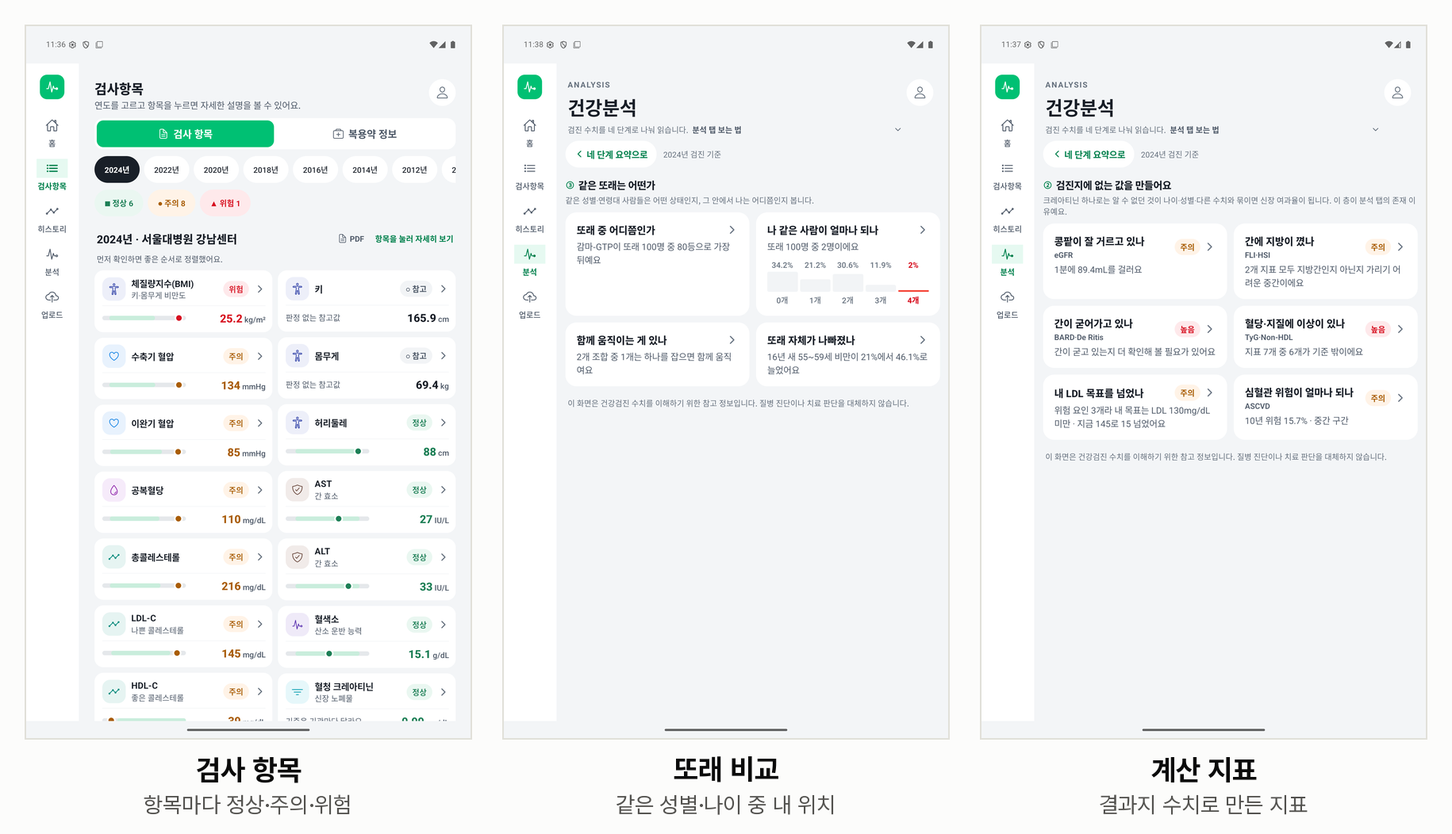
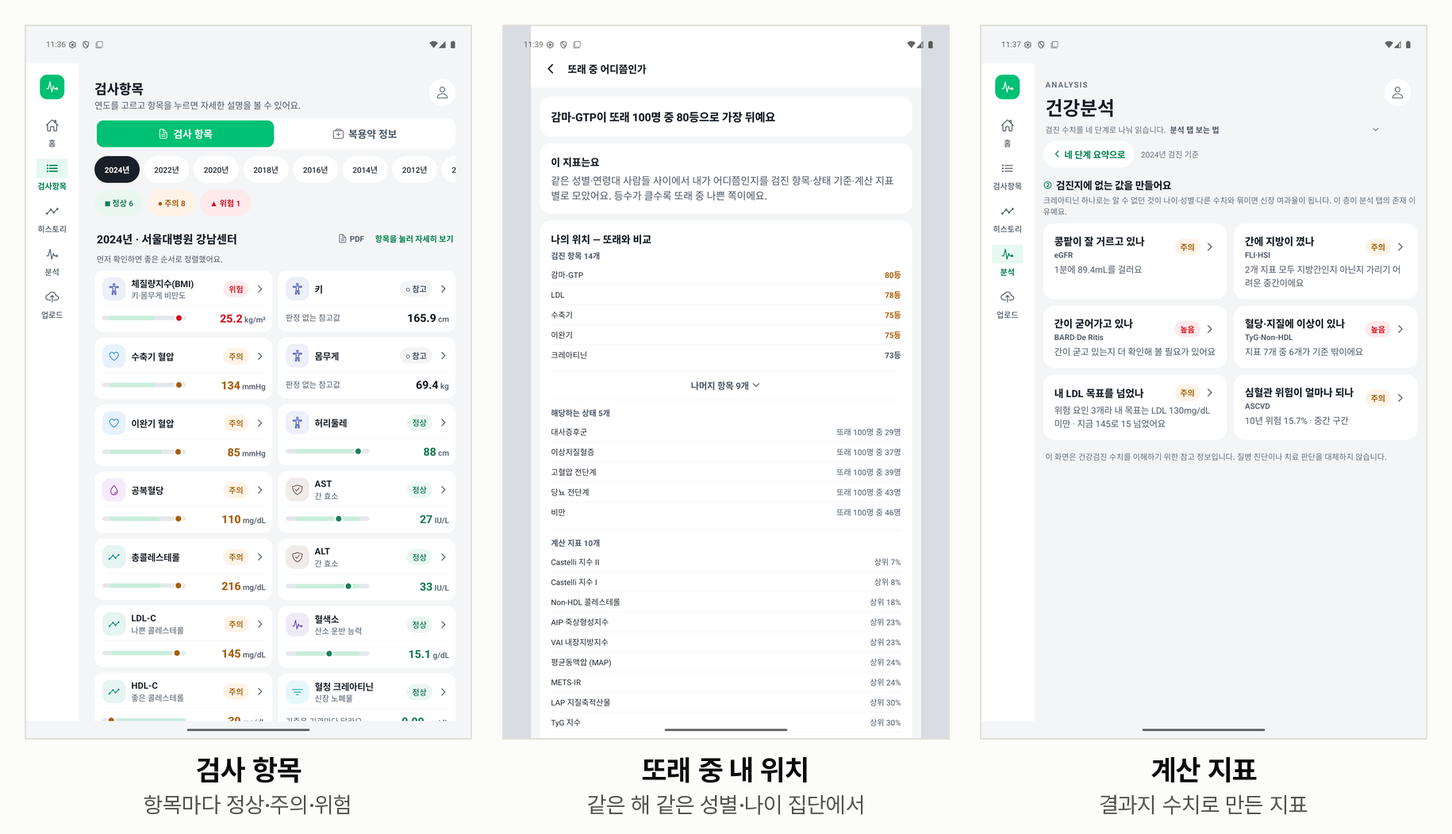
README·문서: 점검 지적 반영(표현·숫자·실행 안내·정정 안내)
- 필요성 첫 문장과 그림 제목을 설문 문항에 맞게, 행동 근거 17.7%, 공공 데이터 설명, 계산식 20종+판정 2종, 참고 점수 계산식
- 또래 16년 추세 예시를 빼고 같은 해 비교 화면으로 바꿈, OCR 문구, 시험 실행 안내, 구성도의 복약 기록 경로
- docs/README·analysis/README에 발표자료 숫자 차이, 2009~2013 나이 코드 정정, 커밋 번호 안내

Changed region(s): [[0.3426, 0.0304, 0.6541, 0.8821], [0.4049, 0.9125, 0.5918, 0.9734], [0.5295, 0.2738, 0.5918, 0.3042]]

diff --git a/frontend-mobile/기존설계-통합본.md b/frontend-mobile/기존설계-통합본.md
@@ -65,7 +65,7 @@
 | 용어 | 뜻 |
 |---|---|
 | **뎁스** (세로 깊이) | 1뎁스 = 결론 카드, 2뎁스 = 카드를 열었을 때, 2.5뎁스 = 그 안의 접힌 "자세히" |
-| **L0~L3** | 스펙 §2의 옛 이름. L0=홈, L1=1뎁스, L2=2뎁스, L3=2.5뎁스. **코드 어휘(1·2·2.5뎁스)가 정본** |
+| **L0\~L3** | 스펙 §2의 옛 이름. L0=홈, L1=1뎁스, L2=2뎁스, L3=2.5뎁스. **코드 어휘(1·2·2.5뎁스)가 정본** |
 | **층** (가로 구획) | 분석 탭의 ① 기준을 벗어났나 → ② 검진지에 없는 값을 만들어요 → ③ 같은 또래는 어떤가 → ④ 그래서 뭘 하면 되나 |
 | **2뎁스 다섯 칸** | ①결론 → ②정의 → ③나의 위치 → ④의미 → ⑤행동 (순서 고정, 예외 없음) |
 | **구획** (`DomainHeader`) | ②층 안에서 장기별(신장/간/대사·지질/심혈관)로 나누는 머리말 |
@@ -76,7 +76,7 @@
 
 | 용어 | 뜻 |
 |---|---|
-| **참고 점수** | 0~100. 검사 항목별 주의/위험 **개수**로 감점. 계산기·조합·ASCVD 등은 **점수에 안 들어간다**(그래서 "이 점수에 들어가지 않은 신호 N가지"를 따로 보여줌) |
+| **참고 점수** | 0\~100. 검사 항목별 주의/위험 **개수**로 감점. 계산기·조합·ASCVD 등은 **점수에 안 들어간다**(그래서 "이 점수에 들어가지 않은 신호 N가지"를 따로 보여줌) |
 | **배지** | 분석 카드는 양호/주의/**높음**('위험'은 선별용 지표에 쓰지 않음), 검사항목은 정상/주의/위험 |
 | **`interpretation` / `plain`** | 같은 판정의 두 벌. `interpretation`=2뎁스 배지·근거, `plain`=**1뎁스 결론** 해요체 문장 |
 | **자산** | 백엔드가 계산했거나 데이터로 확보한 것. "타입에만 있고 안 그리면 없는 것" |
@@ -125,8 +125,8 @@
 | 0. 질문 | 위 표대로 층을 가른다 |
 | 1. 중요도 × 어려움 | 중요·쉬움 → 1뎁스 그대로 / **중요·어려움 → 1뎁스엔 번역한 결론만, 원문은 2.5뎁스** / 부차·쉬움 → 2뎁스 / 부차·어려움 → 2.5뎁스 |
 | 2. 언어 | 1뎁스: 검진지에 **인쇄된** 항목명만(우리가 지은 지표명·약어·공식 금지). 2뎁스: 쉬운 말 먼저, 괄호로 용어. 2.5뎁스: 제한 없음. 선은 "종이에 있나" |
-| 3. 분량 | 1뎁스 제목 12자(배지 있으면)/15자, 결론 1문장 40자, 배지 1개. 2뎁스 칸당 1~3문장, 스크롤 없이 읽히는 분량. 2.5뎁스는 접힌 채 시작, **펼쳐서 6줄 넘으면 3뎁스 검토 신호**(실측 34개 중 5개가 넘음 → "층이 필요한 게 아니라 그 다섯 개가 긴 것") |
-| 4. 순서 | 1뎁스는 탭마다 정렬 기준 하나, 화면이 그 기준을 말한다(홈=심각도, 검사항목=심각도, 히스토리=시간→종합, 분석=논리 4단계). 2뎁스는 ①~⑤ 고정 |
+| 3. 분량 | 1뎁스 제목 12자(배지 있으면)/15자, 결론 1문장 40자, 배지 1개. 2뎁스 칸당 1\~3문장, 스크롤 없이 읽히는 분량. 2.5뎁스는 접힌 채 시작, **펼쳐서 6줄 넘으면 3뎁스 검토 신호**(실측 34개 중 5개가 넘음 → "층이 필요한 게 아니라 그 다섯 개가 긴 것") |
+| 4. 순서 | 1뎁스는 탭마다 정렬 기준 하나, 화면이 그 기준을 말한다(홈=심각도, 검사항목=심각도, 히스토리=시간→종합, 분석=논리 4단계). 2뎁스는 ①\~⑤ 고정 |
 
 ### 4-3. 2뎁스 다섯 칸
 
@@ -148,7 +148,7 @@
 - **판단이 반드시 있어야 한다**(배지 또는 결론 문장 중 하나 이상). 개수·수치 나열로 끝내지 않는다.
   - ✅ "지표 2개 중 1개가 기준 밖이에요" / ❌ "해당 조합 2개"
 - **이름은 질문형**: "콩팥이 잘 거르고 있나"처럼 짓고 용어는 제목 *옆* 작은 회색 라벨(`term`)로. 제목에 괄호로 넣으면 축 2에 걸린다.
-- **"~ 검사"로 부르지 않는다.** 검사를 받은 게 아니라 검진 수치로 계산한 값이다.
+- **"\~ 검사"로 부르지 않는다.** 검사를 받은 게 아니라 검진 수치로 계산한 값이다.
 - **결론은 "답"이지 "값"이 아니다.** 검진지에서 이미 알 수 있는 것을 되풀이하면 카드를 열 이유가 없다(예: "목표 LDL 130 미만, 초과했어요" 대신 "위험 요인 2개라 내 목표는 130 미만 · 지금 178로 48 넘었어요").
 - 결론은 해요체로 끝낸다. 명사로 끊으면 표의 한 칸처럼 읽힌다.
 - 결론이 옆 카드와 같은 질문을 하면 안 된다. 다만 **읽는 목적이 다르면 같은 데이터를 두 번 써도 된다.**
@@ -164,7 +164,7 @@
 ## 5. 화면별 현황과 이미 내려진 결정
 
 ### 5-1. 홈
-- 참고 점수(큰 숫자 64~80pt) + "지금 주의할 항목 TOP 3"(번호, 항목명, 쉬운 해석 한 줄, 상태 배지, **수치 없음**) + "전체 보기" + "빠른 이동".
+- 참고 점수(큰 숫자 64\~80pt) + "지금 주의할 항목 TOP 3"(번호, 항목명, 쉬운 해석 한 줄, 상태 배지, **수치 없음**) + "전체 보기" + "빠른 이동".
 - 모두 정상이면 "모두 정상이에요" 카드.
 - "빠른 이동"(검진기관·병원·약국 찾기 버튼)은 판단 요소가 아니라 **도구 카드**라 정렬 규칙(축 4) 대상이 아니다. TOP 3 아래로 내렸다가 되돌린 이력이 있다.
 - 홈만 데이터를 따라오지 못하던 버그: 항목별 `status`는 `latest.statusByKey`에서 **파생**시킨다.
@@ -227,7 +227,7 @@
 | 미로그인 | 가짜 점수 대신 **로그인 유도 CTA**(검진기관·병원·약국 찾기는 로그인 없이 가능) |
 | 로그인 + 기록 없음 | "검진 기록이 없어요" 빈 상태 + 업로드 유도 |
 | 로그인 + 기록 있음 | **실제 데이터만** |
-| 데모 계정(root/1234) | 시연용 더미(8~9개 회차 모두 실산출, 지어낸 것 아님) |
+| 데모 계정(root/1234) | 시연용 더미(8\~9개 회차 모두 실산출, 지어낸 것 아님) |
 
 ---
 
@@ -275,16 +275,16 @@
 | 토큰 | px | 역할 | 시니어 기준표(최소 → 권장) |
 |---|---|---|---|
 | `T.fs.caption` | **14** | 보조 글자·배지·칩·단위·출처 | 14 → 16 |
-| `T.fs.body` | **16** | 읽는 문장 | 16 → 18~20 |
-| `T.fs.strong` | **18** | 버튼·메뉴·소제목 | 18 → 20~24 |
+| `T.fs.body` | **16** | 읽는 문장 | 16 → 18\~20 |
+| `T.fs.strong` | **18** | 버튼·메뉴·소제목 | 18 → 20\~24 |
 | `T.fs.h3` | **20** | 카드·섹션 제목 | 20 → 24 |
 | `T.fs.title` | **24** | 화면 제목 | 24 이상 |
-| (토큰 없음) | 28~72 | 핵심 숫자(점수 64~72, 값 40 등) | |
+| (토큰 없음) | 28\~72 | 핵심 숫자(점수 64\~72, 값 40 등) | |
 
 - **14 미만 금지.** 이전의 10·11·12·13은 모두 `caption`(14)으로 모였다.
-- 이번 적용은 기존 크기를 구간으로 묶은 것이다: ≤14 → caption, 15~16 → body, 17~19 → strong, 20~22 → h3, 23~26 → title, 28 이상은 그대로. 이어서 버튼·메뉴 라벨(주 버튼·보조 버튼·고스트 버튼)을 `strong`(18)으로 올렸다. 칩·연도 탭·하단 탭 라벨은 아직 caption(14).
+- 이번 적용은 기존 크기를 구간으로 묶은 것이다: ≤14 → caption, 15\~16 → body, 17\~19 → strong, 20\~22 → h3, 23\~26 → title, 28 이상은 그대로. 이어서 버튼·메뉴 라벨(주 버튼·보조 버튼·고스트 버튼)을 `strong`(18)으로 올렸다. 칩·연도 탭·하단 탭 라벨은 아직 caption(14).
 - 가르는 기준은 이제 "문장인가"가 아니라 **역할**이다. 위계는 크기와 굵기로 만들고 색으로 대신하지 않는다.
-- 타이포: 화면 제목 24, 핵심 숫자는 크게(점수 64~80).
+- 타이포: 화면 제목 24, 핵심 숫자는 크게(점수 64\~80).
 - 터치 영역은 최소 48×48.
 - **트레이드오프:** 이전 하한(13/11/10)은 항목이 많은 화면의 밀도를 위한 결정이었다. 하한을 올리면 17개 항목 목록이 길어지고 줄바꿈이 늘어난다. 이 비용은 알고 올린 것이다.
 
@@ -295,15 +295,15 @@
 | 그 아래 | 금지 |
 
 가르는 기준은 "문장인가". 근거를 작게 쓰는 것은 덜 중요해서가 아니라 문장을 먼저 읽게 하려는 것이다. 색으로 위계를 대신하지 않는다.
-타이포: 화면 제목은 작게(24~26), 핵심 숫자는 크게(점수 64~80).
+타이포: 화면 제목은 작게(24\~26), 핵심 숫자는 크게(점수 64\~80).
 
 ---
 
 ## 7. 문구 규칙
 
 - 해요체, 능동형, 긍정형 우선(이상 소견은 명확한 부정형 허용). 어려운 개념은 비유로.
-- 카드 이름은 질문형. "~ 검사"라고 부르지 않는다.
-- "상위 91~100등"처럼 "상위"를 붙이지 않는다(1등=항상 가장 좋음이 아니기 때문).
+- 카드 이름은 질문형. "\~ 검사"라고 부르지 않는다.
+- "상위 91\~100등"처럼 "상위"를 붙이지 않는다(1등=항상 가장 좋음이 아니기 때문).
 - 항목명 중복 금지: 바로 위에 항목명이 있으면 헤드라인에서 주어를 뺀다.
 - "이 항목은요" → "이 지표는요"(분석에는 검사 항목이 아닌 계산 지표도 있음).
 - 이중부정·배제 검사는 직역하지 않는다. BARD가 높은 것은 "섬유화가 있다"가 아니라 "배제할 수 없다"이고, 그 검사가 줄 수 있는 유일한 결론은 "추가 평가 권장"이다.
@@ -364,12 +364,12 @@
 
 | 항목 | 팀 기준 | 시니어 권장 | 판단 |
 |---|---|---|---|
-| 글자 크기 | caption 14 / body 16 / strong 18 / h3 20 / title 24 | 본문 16 이상, 가능하면 18 | **충족(최소)** (11-15 상향. 권장 18~20에는 미달, 버튼은 아직 16) |
+| 글자 크기 | caption 14 / body 16 / strong 18 / h3 20 / title 24 | 본문 16 이상, 가능하면 18 | **충족(최소)** (11-15 상향. 권장 18\~20에는 미달, 버튼은 아직 16) |
 | 텍스트 대비 | `T.text3` `#66717E` | 4.5:1 이상 | 흰 5.0:1, 앱 배경 4.5:1 → **충족** (11-15 `#8B95A1`에서 수정) |
 | 배지 글자색/틴트 | 주의 `#A95D05`/`#FFF3E7` 등 | 4.5:1 이상 | 주의·위험·정상 모두 틴트 위 4.5 이상 → **충족** (11-15 수정. 이전 2.9/3.2/3.9) |
 | 버튼 글자 | `#FFFFFF` / `#00C073` | 4.5:1 이상 | 2.4:1 → **미달** (11-15 디자인 선택으로 흰색 채택. 해결안: 채움을 `#00814D`(4.9)로, 또는 글자를 `#06281C`(6.6)로) |
 | 본문색 | `#4E5968` / 흰 배경 | 4.5:1 이상 | 7.1:1 → 충족 |
-| 터치 높이 | 버튼 최소 48 | 44~48 이상 | 충족 |
+| 터치 높이 | 버튼 최소 48 | 44\~48 이상 | 충족 |
 | 색만으로 구분 금지 | 배지에 텍스트 병기 | 일치 | 충족 |
 | 쉬운 말·해요체·용어 뒤로 | 핵심 원칙 | 일치 | 충족 |
 | 한 화면 한 가지 | 홈만 토스 밀도, 나머지는 뱅샐 밀도 | 한 화면 한 가지 | 부분 충돌 (스펙 §8이 "항목 20개 리스트에 부적합"이라며 의도적으로 채택 안 함) |
@@ -405,7 +405,7 @@
 | 08-01 | `design/…A3완결-데모연도별실분석-페르소나스펙.md` | 관리 참고군 제거, 데모 8회차 실분석, APK 게이트 |
 | 08-01 | `design/…인제주챌린지-대비-OCR실경로와-발표자료.md` | 대회 대비(OCR 실경로, 발표) — 디자인과는 거리 |
 | 08-02 | `design/…연도추적-분석탭개편-데모데이터재설계.md` | 항목 상세 연도 추적, 분석 탭 개편, 히스토리 정리 |
-| 08-02 | `design/…뎁스규격-확정과-분석탭-전면정리.md` | **뎁스 규격(축 0~4) 확정**, 카드 질문형 이름 |
+| 08-02 | `design/…뎁스규격-확정과-분석탭-전면정리.md` | **뎁스 규격(축 0\~4) 확정**, 카드 질문형 이름 |
 | 08-03 | `design/…1뎁스결론-plain분리와-2뎁스펼침경계.md` | `plain` 분리, 공식만 접기, 대표 지표 등수 |
 | 08-03 | `design/…네축을-판정-비교-행동으로-잇기.md` | 마감 기록. 층 이름의 거짓말, "무엇부터 하면 되나", 글자 크기 개정, 남은 것 |
 | (근거) | `evidence/…생활습관-효과크기-근거.md` | 문구가 의존하는 효과크기 근거(98KB, 이 요약은 읽지 않음) |

diff --git a/README.md b/README.md
@@ -17,7 +17,7 @@
 
 ## 필요성
 
-건강검진은 2년마다 받지만, 결과지는 받고 나면 거의 다시 쓰이지 않습니다. 검진을 받아 본 일반인에게 설문하고(2026년, 응답 75명 중 검진 경험자 64명), 학과 교수 4명을 인터뷰했습니다.
+건강검진은 2년마다 받지만, 결과지는 대부분 종이로 쌓이기만 하고 잘 활용되지 않습니다. 일반인에게 설문하고(2026년, 응답 75명 가운데 검진 경험이 있고 이후 문항에 답한 64명 기준), 학과 교수 4명을 인터뷰했습니다.
 
 <img src="docs/images/need_survey.png" width="760" alt="설문 결과: 결과지를 종이로만 두거나 관리하지 않는다 84.4%(64명 중 54명), 다시 거의 또는 전혀 읽지 않는다 43.8%(64명 중 28명), 수치만 있고 설명이 없어 이해하기 어렵다 54.8%(62명 중 34명)">
 
@@ -28,7 +28,7 @@
 | 관리가 안 된다 | 결과지를 따로 보관해야 해서 불편 53.4%, 변화량을 직접 계산해야 해서 불편 32.8% | 결과지 사진 한 장으로 수치를 읽어 해마다 쌓고, 변화를 그래프로 보여 줌 |
 | 이해가 안 된다 | 수치만 있고 설명이 없음 54.8%, 전문 용어가 많음 50.0% | 항목마다 정상·주의·위험과 쉬운 설명 |
 | 무엇이 중요한지 모른다 | 어떤 항목이 중요한지 모름 46.8% | 지금 주의할 항목, 결과지 수치로 계산한 지표, 같은 나이·성별 또래와 비교 |
-| 행동으로 이어지지 않는다 | 상담에서 주로 들은 내용이 생활습관 조언인 사람 4.7% | 다음 검진까지 챙길 생활 습관과 목표 |
+| 행동으로 이어지지 않는다 | 읽어도 어떻게 해야 할지 모름 17.7%, 상담에서 주로 들은 내용이 생활습관 조언인 사람 4.7% | 다음 검진까지 챙길 생활 습관과 목표 |
 
 <img src="docs/images/need_features.png" width="760" alt="가장 필요한 기능 하나를 고르게 한 결과(64명): 연도별 수치 변화 그래프 48.4%, 위험 항목과 원인을 쉽게 설명 40.6%, 같은 성별·나이 평균과 비교 6.2%, 식단·생활습관 개선 안내 3.1%, 복용 중인 약 설명과 처방 이력 1.6%">
 
@@ -42,8 +42,8 @@
 
 **공공 데이터**
 
-- 국민건강보험공단은 검진 표본을 해마다 약 100만 명분 공개하지만, 집단 통계라서 개인의 결과지와 이어지지 않습니다.
-- 헬스에이지는 2009\~2024년 1,596만 건을 같은 나이·성별 집단으로 묶어, 내 수치가 또래 사이에서 어디쯤인지 보여 줍니다.
+- 국민건강보험공단은 검진 표본을 해마다 약 100만 명분 공개하지만, 이름 없는 표본 자료라 개인이 내 결과지와 바로 견주어 보기 어렵습니다.
+- 헬스에이지는 2009\~2024년 표본 1,596만 건을 해마다 성별·나이 집단으로 묶어, 내 수치가 같은 해 같은 성별·나이 집단에서 어디쯤인지 보여 줍니다.
 
 설문 응답자는 50대(66.7%)와 여성(62.5%)이 많아, 다른 나이대에서는 결과가 다를 수 있습니다. 설문 원문 정리는 [docs/planning/일반인설문-75명-결과-정리.md](docs/planning/일반인설문-75명-결과-정리.md), 인터뷰 정리는 [docs/planning/2026-04-회의와-교수인터뷰-정리.md](docs/planning/2026-04-회의와-교수인터뷰-정리.md)에 있습니다.
 
@@ -63,16 +63,16 @@
 
 <img src="docs/images/feat_history.png" width="820" alt="홈, 히스토리, 항목별 변화 화면">
 
-- 홈에서는 올해 건강 점수와 지금 주의할 항목을 먼저 보여 줍니다.
+- 홈에서는 올해 참고 점수와 지금 주의할 항목을 먼저 보여 줍니다. 참고 점수는 100점에서 주의 항목마다 6점, 위험 항목마다 12점을 뺀 값입니다.
 - 히스토리에서는 점수와 항목별 수치가 해마다 어떻게 바뀌었는지 그래프로 봅니다. 병원이 달라도 한 기록으로 이어집니다.
 
 ### 3. 이해: 내 수치가 무슨 뜻인지
 
-<img src="docs/images/feat_analysis.png" width="820" alt="검사 항목, 또래 비교, 계산 지표 화면">
+<img src="docs/images/feat_analysis.png" width="820" alt="검사 항목, 또래 중 내 위치, 계산 지표 화면">
 
 - 항목마다 정상·주의·위험을 표시하고, 무엇을 뜻하는지 쉬운 말로 설명합니다.
-- 공단 표본 1,596만 건으로 같은 성별·나이 또래 중 내 위치(예: 100명 중 80등), 나와 같은 조합을 가진 사람의 비율, 또래 전체가 16년 동안 어떻게 바뀌었는지를 보여 줍니다.
-- 결과지 수치로 지방간 지수(FLI·HSI)·심혈관 10년 위험·약 용량 참고용 신장 기능(CrCl) 등 22종을 계산·판정합니다(결과지에 있는 eGFR도 공식으로 다시 계산).
+- 공단 표본으로 검진 연도의 같은 성별·나이 집단 중 내 위치(예: 100명 중 80등)와, 나와 같은 위험 요인 조합을 가진 사람의 비율을 보여 줍니다.
+- 결과지 수치로 계산식 20종(지방간 지수 FLI·HSI, 심혈관 10년 위험, 약 용량 참고용 신장 기능 CrCl, 결과지에 있는 eGFR의 재계산 등)을 계산하고, LDL 개인 목표와 지방간 유형 두 가지를 판정합니다.
 - 약 덕분에 정상 범위에 있는 수치는 따로 구분해, 약을 먹는 사람이 '정상'으로 잘못 읽히지 않게 했습니다.
 
 ### 4. 행동: 다음 검진까지 무엇부터
@@ -89,7 +89,7 @@
 
 | 근거 | 쓰는 곳 |
 |---|---|
-| 국민건강보험공단 건강검진 표본 2009\~2024년, 1,596만 건<br>[16년 5축 재분석](docs/analysis/2026-07-29-공단표본-16년-5축-재분석.md) | 같은 성별·나이 또래 중 내 위치, 단일 위험군 13개·조합 12개의 또래 비율, 16년 추세 |
+| 국민건강보험공단 건강검진 표본 2009\~2024년, 1,596만 건<br>[16년 5축 재분석](docs/analysis/2026-07-29-공단표본-16년-5축-재분석.md) | 같은 해 같은 성별·나이 집단 중 내 위치, 단일 위험군 13개·조합 12개의 비율 |
 | 학회 진료지침·교육자료 8종: 고혈압(2026), 당뇨병(2025), 이상지질혈증(2022), 대사증후군(2021·2024), 지방간 MASLD(2025)·NAFLD(2021)·알코올성 간질환(2013)<br>[진료지침 원문 검증](docs/evidence/2026-07-20-의학근거-원문검증.md) | 항목별 정상·주의·위험 기준, LDL 개인 목표, 지방간 유형 |
 | 공개된 계산식<br>[계산기 목록](docs/analysis/2026-07-21-계산기-카탈로그.md) | 신장 기능 eGFR(CKD-EPI 2021)·CrCl, 지방간 지수 FLI·HSI, 심혈관 10년 위험(ASCVD·PREVENT·Framingham·SCORE2), 지질·인슐린 저항 지표(Non-HDL·TyG 등) |
 | 생활습관 효과 크기 연구<br>[생활습관 효과 크기 조사](docs/evidence/2026-07-30-생활습관-효과크기-근거.md) | 할 일의 순서, 목표까지 줄어드는 거리 |
@@ -104,9 +104,9 @@
 
 | 구분 | 내용 |
 |---|---|
-| 대회 | 2026 In-Jeju Challenge 본선 발표와 부스 시연. 수상 5개 팀에 들어 CO-SHOW 성과 전시에 참가 |
+| 대회 | 2026 In-Jeju Challenge 수상(수상 5개 팀이 CO-SHOW 성과 전시에 참가) |
 | 전시 | CO-SHOW 2026 (2026-11-18\~21, 광주 김대중컨벤션센터). 태블릿 체험과 QR 웹 체험판으로 부스 시연 |
-| OCR | 개인정보를 가린 실제 공단 결과통보서 1장에서 측정 16항목을 모두 읽음(16/16). 6도 기울인 이미지에서도 16/16. 결과지를 더 모아 시험하는 것이 다음 과제 |
+| OCR | 개인정보를 가린 실제 공단 결과통보서로 시험해 측정 16항목을 모두 읽음(16/16). 결과지 이미지를 6도 기울여 넣은 기울기 보정 시험에서도 16/16. 직접 찍은 사진 여러 장으로 시험하는 것이 다음 과제 |
 | 자동 시험 | 분석 서버 124개 통과, 모바일 앱 162개 통과 (2026-11-22). 분석 서버의 13개는 저장소에 넣지 않은 시험용 결과지 이미지가 필요하거나 통합 시험으로 따로 빼서 건너뜀 |
 | 개발 기록 | 커밋 300여 개(2026-07-19부터), 설계·분석·근거 문서는 [docs/README.md](docs/README.md) |
 
@@ -137,7 +137,8 @@
 
 ```mermaid
 flowchart LR
-    A[검진지 사진<br>복약 기록] --> B[OCR<br>OpenCV 표 검출 + 비전 AI]
+    A[검진지 사진] --> B[OCR<br>OpenCV 표 검출 + 비전 AI]
+    M[복약 기록<br>엑셀 파일] --> D
     B --> C[사용자 확인<br>모바일 앱]
     C --> D[분석 서버<br>FastAPI]
     S[(공단 표본 통계<br>연령·성별 집단)] --> D
@@ -186,6 +187,8 @@ uv run uvicorn app.main:app --reload
 uv run pytest
 ```
 
+분석 서버 시험만 돌릴 때는 `backend/.env.example`을 그대로 `backend/.env`로 복사하면 됩니다(124개 통과, 13개 건너뜀).
+
 Supabase를 설정하면 root / 1234 데모 로그인은 꺼집니다(`EXPO_PUBLIC_ENABLE_DEMO=1`로 다시 켤 수 있음). 모바일 앱 설정은 `frontend-mobile/FRONTEND.md`에 있습니다.
 
 ## 데이터와 개인정보
@@ -195,7 +198,7 @@ Supabase를 설정하면 root / 1234 데모 로그인은 꺼집니다(`EXPO_PUBL
 
 ## 저장소 안내
 
-- 팀 비공개 저장소의 개발 기록(2026-07-19부터 커밋 297개)을 옮기고, 공개하면서 정리한 커밋을 그 뒤에 더했습니다. 5\~6월 백엔드 첫 판은 팀원 저장소에서 만들어 7/19 첫 커밋에 합쳤습니다.
+- 팀 비공개 저장소의 개발 기록(2026-07-19부터 커밋 297개)을 옮기고, 공개하면서 정리한 커밋을 그 뒤에 더했습니다. 5\~6월 백엔드 첫 판은 팀원 저장소에서 만들어 7/19 첫 커밋에 합쳤고, 통합 뒤의 커밋은 대부분 팀장 계정(lumos0107)으로 올렸습니다.
 - 공개하면서 기록 전체에서 검진의사 정보, 실제 검진 수치, 서버 계정 비밀번호를 가렸습니다. 위의 root / 1234는 서버 없이 도는 데모 전용 계정입니다.
 - 웹 체험판 빌드 결과는 `gh-pages` 브랜치에 있습니다.
 

diff --git a/docs/analysis/README.md b/docs/analysis/README.md
@@ -14,6 +14,10 @@
 | `2026-07-29-공단표본-16년-5축-재분석.md` | 국민건강보험공단 표본 2009\~2024년 15,957,665행을 5축(조합그룹·단일그룹·검진항목·계산기·관리참고군)으로 재분석한 기록. 제약·검증·결과·한계·제품 반영·커밋 이력 |
 | `stats16_build.py` | 위 분석의 **재현 스크립트**. 판정 공식은 백엔드 원본에서 그대로 이식했다 |
 
+## 고칠 점
+
+2009\~2013년 표본은 연령대 코드가 1(20\~24세)\~14이고 2014년부터는 5(20\~24세)\~18이다. `population16.py`의 나이→코드 변환은 모든 해에 2014년 방식을 써서, 2013년 이전과 견주는 16년 추세(`2026-07-29-공단표본-16년-5축-재분석.md` §4의 나이대별 변화 등)가 다른 나이대 값과 섞여 있다. 같은 해 안의 비교(또래 중 내 위치)는 영향이 없다.
+
 ## 관련 코드
 
 - `backend/app/analyzer/_internal/population16.py` — 아래 parquet을 조회해 분석 응답에 붙인다

diff --git a/docs/README.md b/docs/README.md
@@ -31,4 +31,7 @@
 ## 읽을 때 참고
 
 - 개발하면서 쓴 기록이라, 뒤에서 판단을 바꾼 부분도 지우지 않고 남겼습니다.
+- 발표자료와 결과보고서의 숫자는 그때 기준이라 README와 다를 수 있습니다. 예를 들어 설문 비율(84.3%→84.4%, 반올림 차이), 진료지침(7종→교육자료를 더해 8종), 계산 지표(20종→판정 2종을 더해 22종)가 다릅니다.
+- 2009\~2013년 공단 표본은 나이 코드 체계가 2014년 뒤와 달라, 이를 섞어 비교한 16년 추세(발표자료와 `analysis/2026-07-29-공단표본-16년-5축-재분석.md` 4장의 나이대별 변화)는 고쳐야 합니다.
+- 문서 속 커밋 번호는 공개 전 저장소 기준이라 이 저장소의 번호와 다릅니다.
 - 문서 속 `정리/`, `input/` 같은 경로는 팀 작업 폴더를 가리키며 이 저장소에는 없습니다. 진료지침 PDF, 공단 원자료, 설문 응답 원본, 자문 녹취는 넣지 않았습니다.
